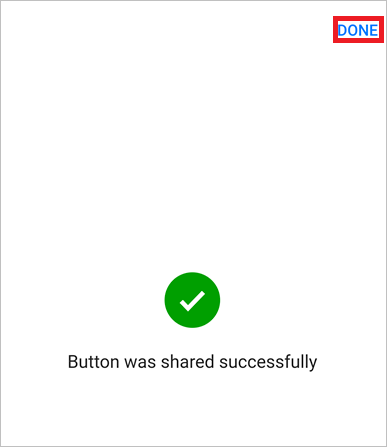
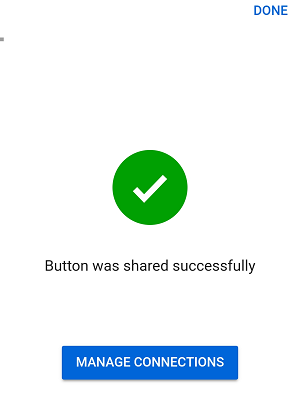
updates to button doc

diff --git a/articles/share-buttons.md b/articles/share-buttons.md
@@ -59,15 +59,27 @@ You can share a button from the **Buttons** tab of the Microsoft Flow mobile app
 
     ![share button](./media/share-buttons/share-button-flows-invite-others-send.png)
 
-    >[AZURE.NOTE]Shared buttons run with their creator's connections. However, nobody else can access these credentials, nor reuse them in any other flow.
-
-1. Tap **OK** to acknowledge that your button will use the *connections* that exist in the button whenever the person or group you've shared it with runs it.
-
-    ![share button](./media/share-buttons/share-button-flows-invite-others-ok.png)
-
 1. Tap **DONE** on the page that indicates the button sharing operation completed successfully.
 
     ![share button](./media/share-buttons/share-button-flows-invite-others-done.png)
+
+## Require users to use their own connections
+
+    >[AZURE.NOTE]When you share a button, you can allow persons with whom you've shared the button to use all connections that your button uses. You can also require them to use their own connections. If you allow others to use your connections, they can't access the credentials in your connection, or reuse them in any other flow.
+
+Follow these steps to require persons with whom you've share your buttons to use their own connections.
+
+1. Select **MANAGE CONNECTIONS** on the sceen that's displayed immediately after you successfully share a button.
+
+1. Select **Provided by user**
+
+    ![share button](./media/share-buttons/share-button-select-connection-provided-by-user.png)
+
+ You can view or change your selections from the **Flows** tab. To do so, select the flow you shared > **Users and connections** > **CONNECTIONS** tab > **EDIT**.
+
+![share button](./media/share-buttons/share-button-flows-conn-provided-by-user.png)
+
+Optionally, you can change these options from the **CONNECTIONS** tab of the mobile app.
 
 ## View the list of button users
 
